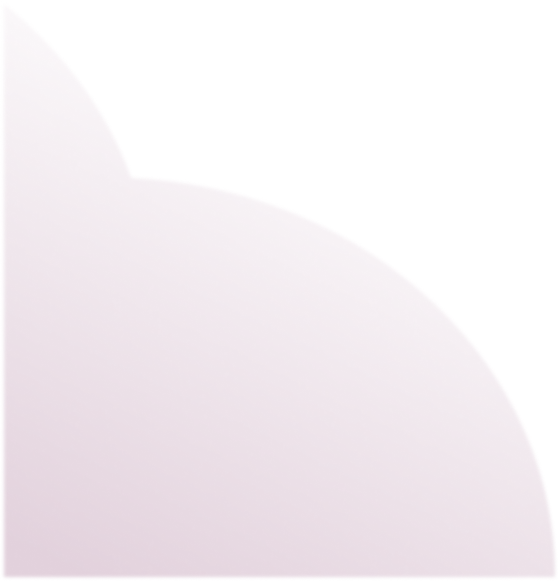
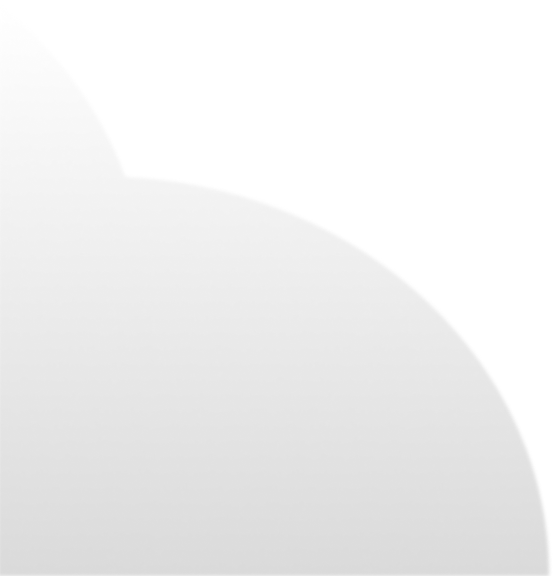
recoloring studentorteacher

Changed region(s): [[0.0, 0.75, 0.9837, 1.0]]

diff --git a/Home/StudentorTeacher.html b/Home/StudentorTeacher.html
@@ -10,29 +10,34 @@
     <link href="https://fonts.googleapis.com/css2?family=Instrument+Sans:ital,wght@0,400..700;1,400..700&display=swap" rel="stylesheet">
 </head>
 <body>
+    <svg id = "weirdpath" style = "position:fixed; z-index:-2; top:150" width="100vw" height="100vh">
+        <path d="M 1 4 C 191.518 9.2973 552.715 38.3946 473.359 112.406 C 447.379 131.514 368.967 175.86 263.159 200.379 C 198.603 211.73 86.4969 214.114 154.517 132.838 C 210.412 74.5677 375.816 10.5838 590.267 220.811 C 804.718 431.038 1121.93 539.566 1235.73 508.702 C 1349.1 497.351 1455 289 1294.93 192.932 C 1126.77 102.575 911.112 213.629 840.203 273.599 C 752.217 348.011 737.479 433.996 739.368 500.742 C 741.258 567.488 810.278 704.533 864.923 750.704 C 928.438 804.37 1076.56 911.769 1288.18 876.353 C 1499.79 840.936 1415.28 655.177 1251.35 670.037 C 1127.09 670.037 990.478 820.758 1274.12 897.18 C 1285.39 901.071 1345.16 911.084 1494 920" 
+              stroke="#1ebcc8" fill="none" stroke-width="4"
+              stroke-dasharray="5095" stroke-dashoffset="5095"
+              class="draw-path"/>
+
+    </svg>
     <div class = "fullbody instrument-sans-stuff">
         <a href="javascript:history.back()"><img src="img/backbutton.png" id ="backbut" alt="backbutton"></a>
         <a href="Index.html"><img src="img/home.png" id = "homebut" alt="home"></a>
         <div id = "welcomecontainer">
             <h1 id = "welcome" class ="place">Welcome!</h1>
         </div>
+        
         <div id ="studentteachercontainer">
             <h2 class = "studentteacher place">I am a ...</h2>
             <div id ="stbuttons">
                 <a href="SignUp.html"> <!--! same for now -->
-                <button class = "studentteacherbut studentbut" >Student</button>
-                <button class = "studentteacherbut teacherbut">Teacher</button>
+                <button class = "studentteacherbut studentbut" >Student</button></a>
+                <a></a><button class = "studentteacherbut teacherbut">Teacher</button>
                 </a>
             </div>
         </div>
+
         <img src="img/cloud1.png" class="cloud cloud1" id="cloud1" alt="Cloud">
         <img src="img/cloud2.png" class="cloud cloud2" id = "cloud2" alt="Cloud">
         <img src="img/cloud3.png" class="cloud cloud3" id = "cloud3" alt="Cloud">
-        <img src="img/station.png" class="spacestation" alt="Space Station">
-        <img src="img/rocket.png" id = "rocket" alt="rocket">
-        <img src="img/fire.png" id = "fire" alt="fire">
     </div>
-    
 </body>
 <script src= "kevin.js"></script>
 </html>

diff --git a/Home/StudentorTeacherPrompt.css b/Home/StudentorTeacherPrompt.css
@@ -2,9 +2,12 @@ body {
     margin: 0;
     padding: 0;
     overflow: hidden; /* Prevents scrolling */
+    background: url("img/starrybackground.jpg");
+    
+
 }
 .fullbody {
-    background: linear-gradient(to bottom, #fff, #e2d1dc);
+    color:white;
     height:100vh;
     width:100vw;
     position:relative;
@@ -66,15 +69,17 @@ h1, h2 {
 #welcome{
     font-size:50px;
 }
-@media (max-height: 865px) and (max-width:905px), (max-width:538px){
-    .spacestation, #rocket, #fire{
-        display:none;
-    }}
+
 @media (max-height: 865px) and (max-width:905px), (max-width:730px){
     #backbut, #homebut{
         bottom:50px;
         top:auto;
         z-index:3;
+    }
+}
+@media(max-width:918px){
+    #weirdpath{
+        visibility:hidden;
     }
 }
 @media (max-width:490px){
@@ -86,22 +91,19 @@ h1, h2 {
     }
 }
 .studentbut{
-    box-shadow:0px 5px 5px rgb(255, 255, 255,0.5
-    );
-    margin-left:100px;margin-right:50px;color:#fff;background-color: #c6abbd;
+    margin-left:100px;margin-right:50px;color:#fff;background-color: #9b1f17;
+    z-index:2;
+
 }
-.studentbut:hover{
+.studentbut:hover, .teacherbut:hover{
     cursor:pointer;
     background:linear-gradient(#c6abbd,#A28C9B);
 }
-.teacherbut:hover{
-    cursor:pointer;
-    background:linear-gradient(#fff,#dadada)
-}
+
 .teacherbut{
-    box-shadow:0px 5px 5px rgb(0, 0, 0,0.25
-    );
-    margin-right:100px;margin-left:50px;background-color:#fff;
+    margin-right:100px;margin-left:50px;background-color:#1ebcc8; color:white;
+    z-index:2;
+
 }
 .cloud {
     position: fixed;
@@ -117,39 +119,25 @@ h1, h2 {
     left: 50%;
     transform: translateX(-50%);
     bottom:0;
-    width:80vw;
+    width:70vw;
     height:auto;
-    z-index: 0;
+    z-index: -1;
 }
 .cloud3{
     bottom:0;
     right:0;
 }
+.draw-path {
+    animation: draw 20s linear infinite;
+}
 
-.spacestation {
-    position: fixed;
-    bottom: 0;
-    left: 50%;
-    transform: translateX(-50%);
-    width:300px;
-    height:auto;
-    z-index:3;
-}
-#rocket{
-    width:100px;
-    height:auto;
-    position:fixed;
-    left:50%;
-    bottom:0;
-    transform:translateX(-58%) translateY(-25%);
-}
-#fire{
-    width:40px;
-    height:auto;
-    position:fixed;
-    left:50%;
-    bottom:0;
-    transform:translateX(-68%) translateY(-25%);
+@keyframes draw {
+    from {
+        stroke-dashoffset: 5095;
+    }
+    to {
+        stroke-dashoffset: 0;
+    }
 }
 @keyframes fadeIn {
     from{
